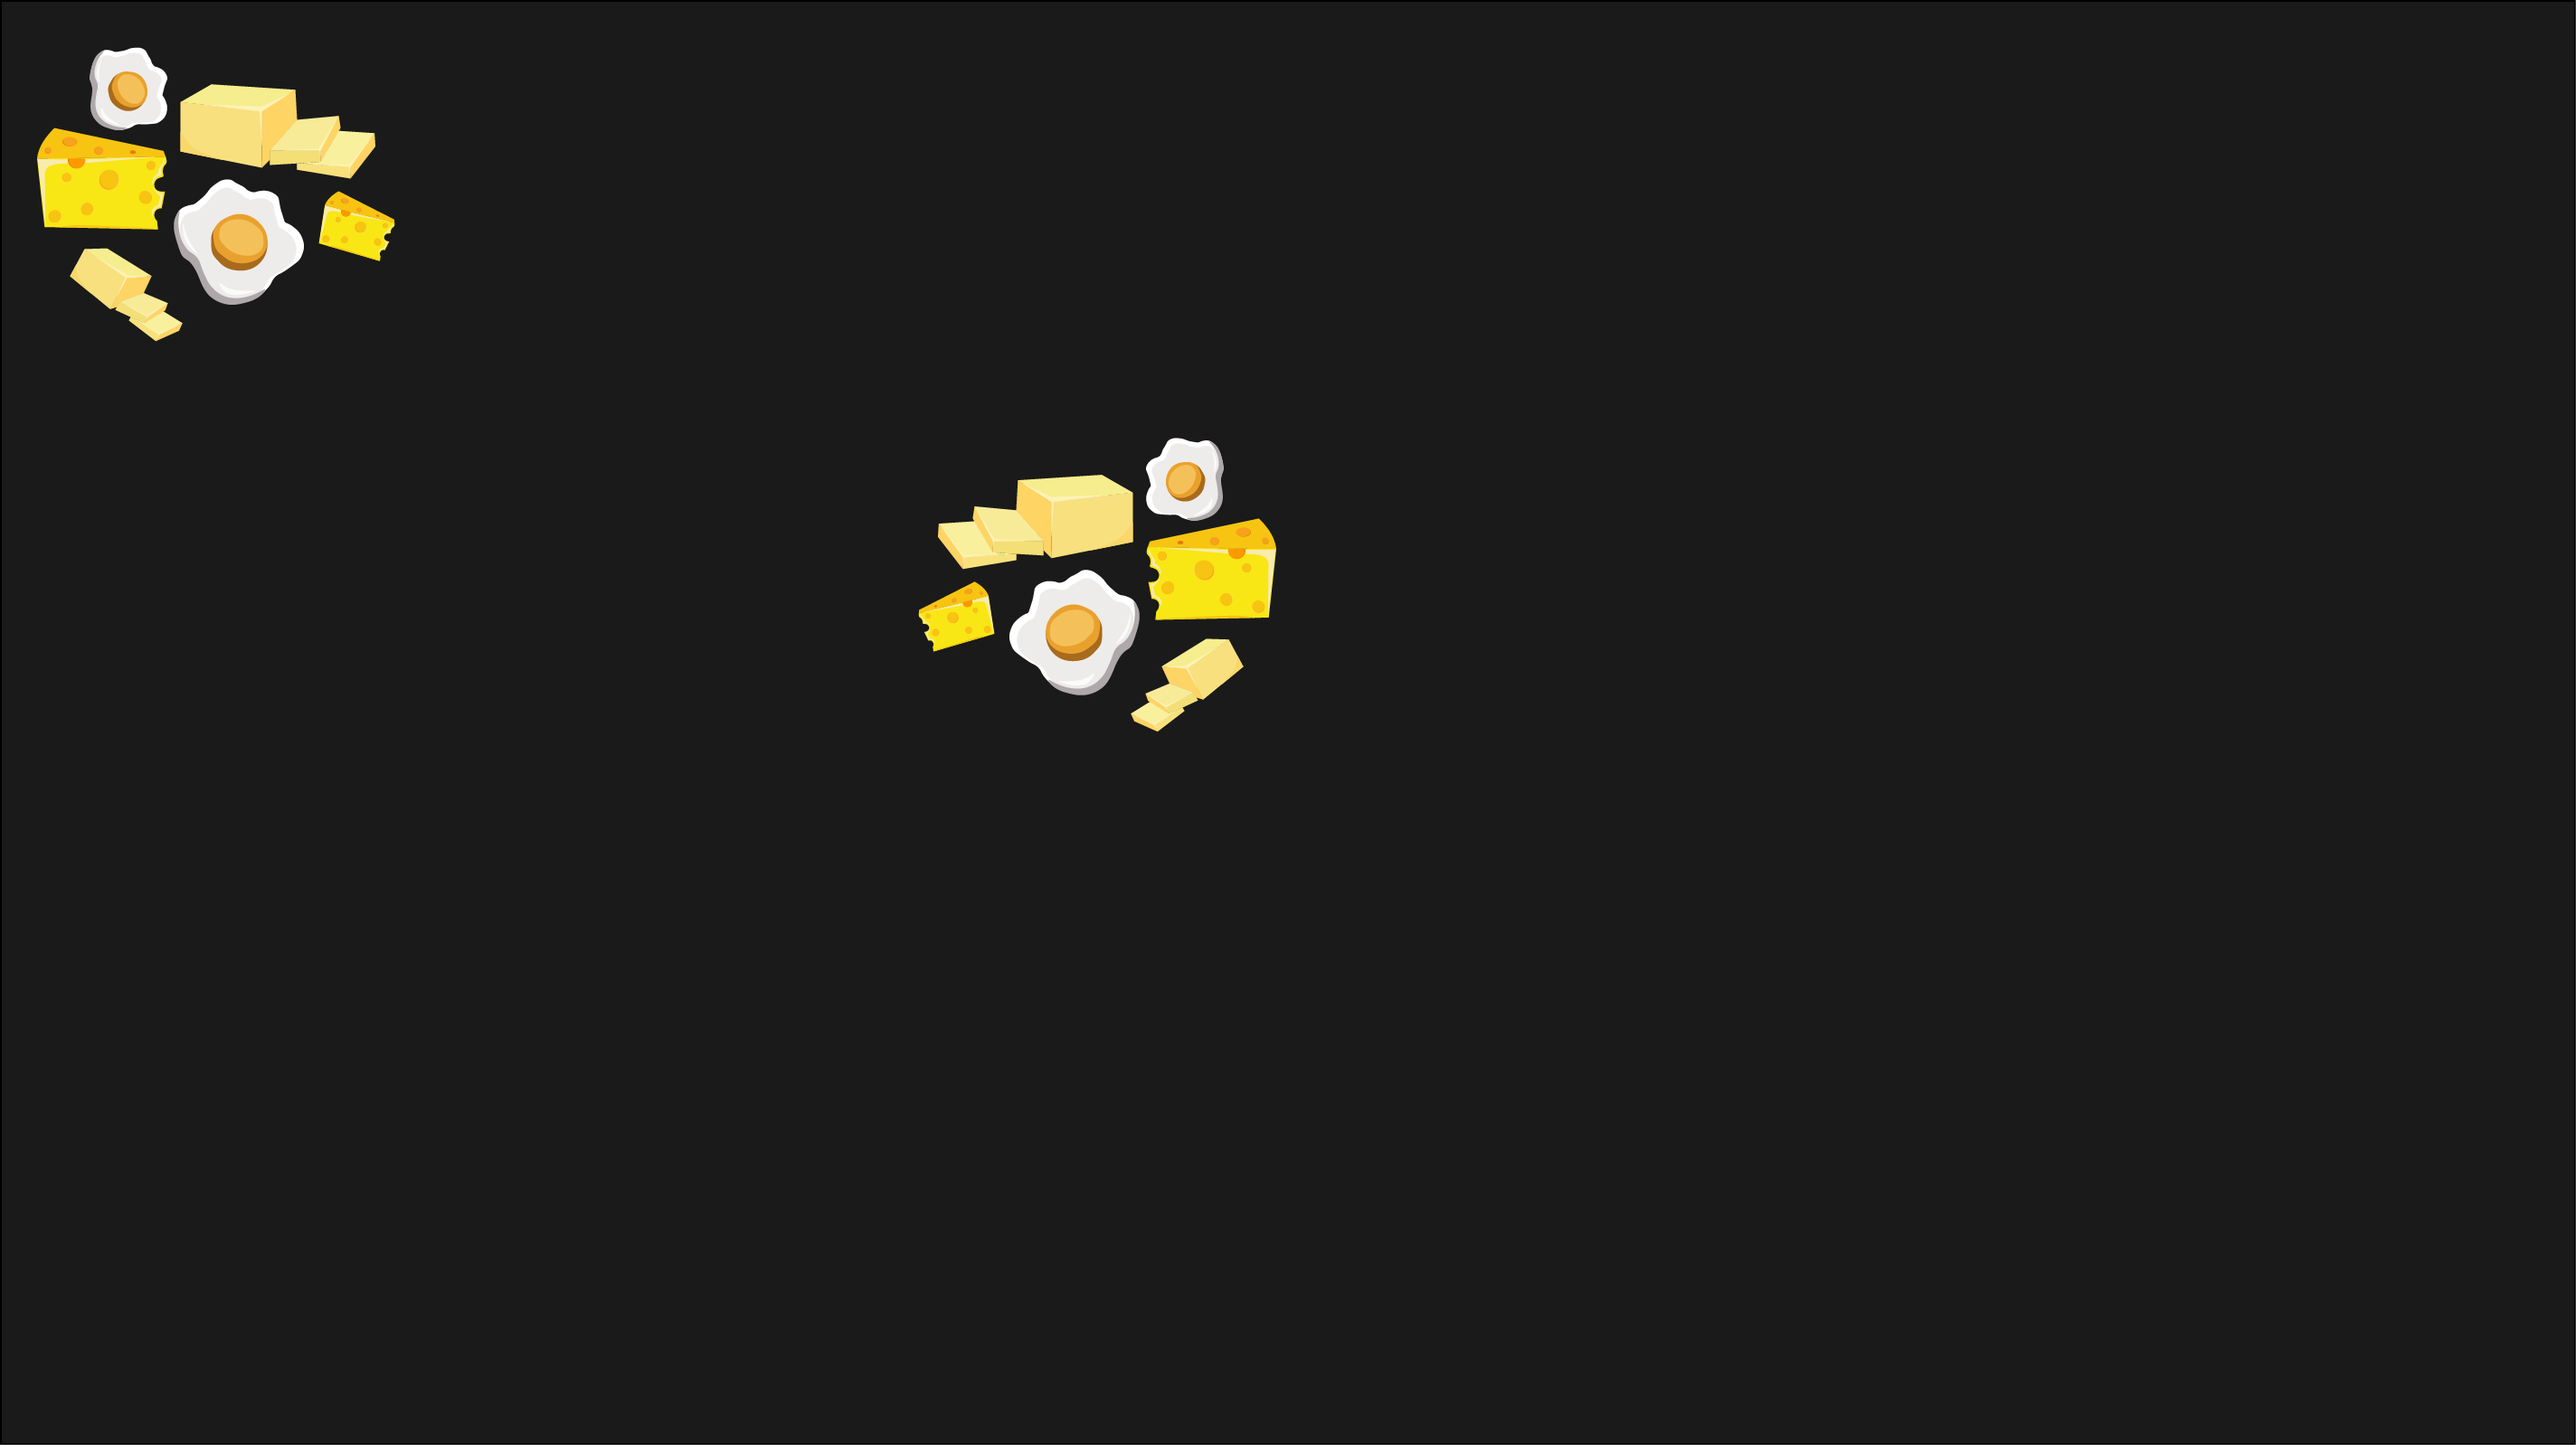
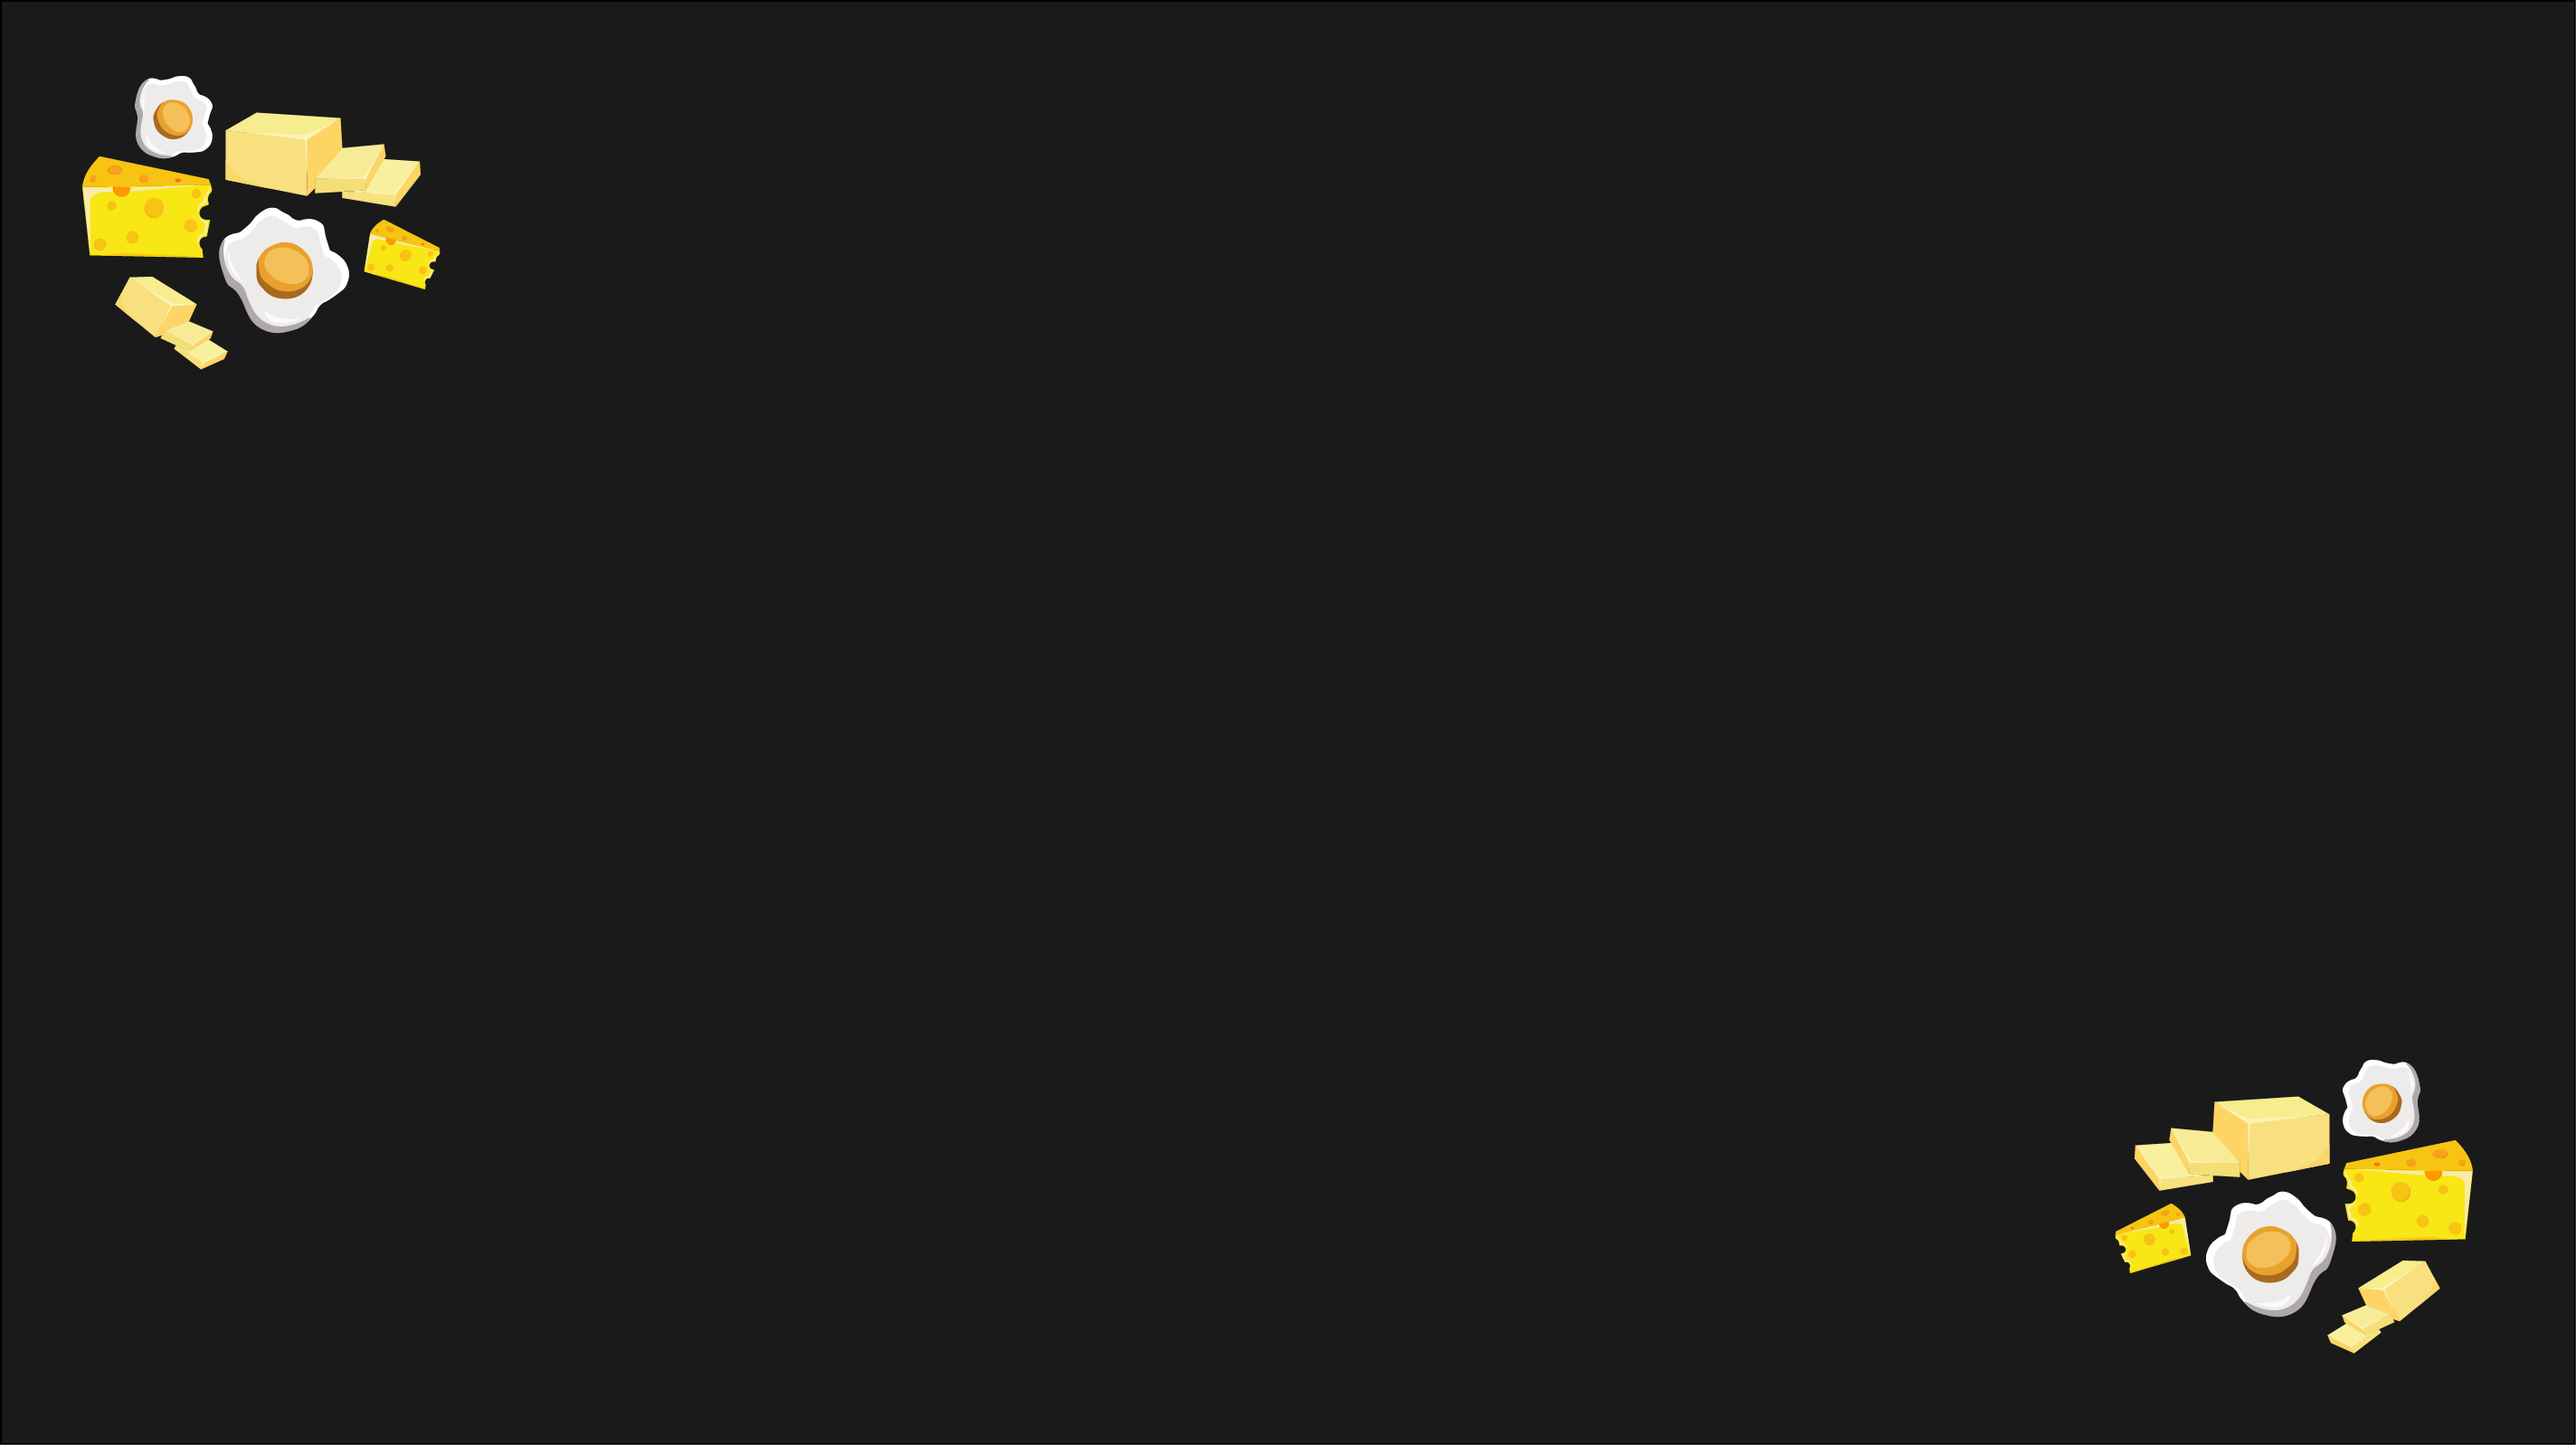
fixings mattie

Changed region(s): [[0.0, 0.0307, 0.1875, 0.276], [0.3438, 0.3066, 0.5, 0.5213], [0.8125, 0.7359, 0.9688, 0.9506]]

diff --git a/styles.css b/styles.css
@@ -7,6 +7,8 @@ body {
     height: 100vh;
     margin: 0;
     background-image: url(Boter\ kaas\ en\ eieren\ design.png);
+    background-size: cover; 
+    background-position: center; 
     color: #000000;
   }
 
@@ -26,7 +28,7 @@ body {
   }
   
   .cell {
-    background-color: rgb(255, 205, 223);
+    background-color: rgb(253, 255, 205);
     border: 2px solid #1A1A1A;
     display: flex;
     justify-content: center;
@@ -39,7 +41,7 @@ body {
   }
   
   .cell:hover {
-    background-color: rgb(255, 249, 207);
+    background-color: rgb(255, 237, 98);
   }
   
   .game-message {
